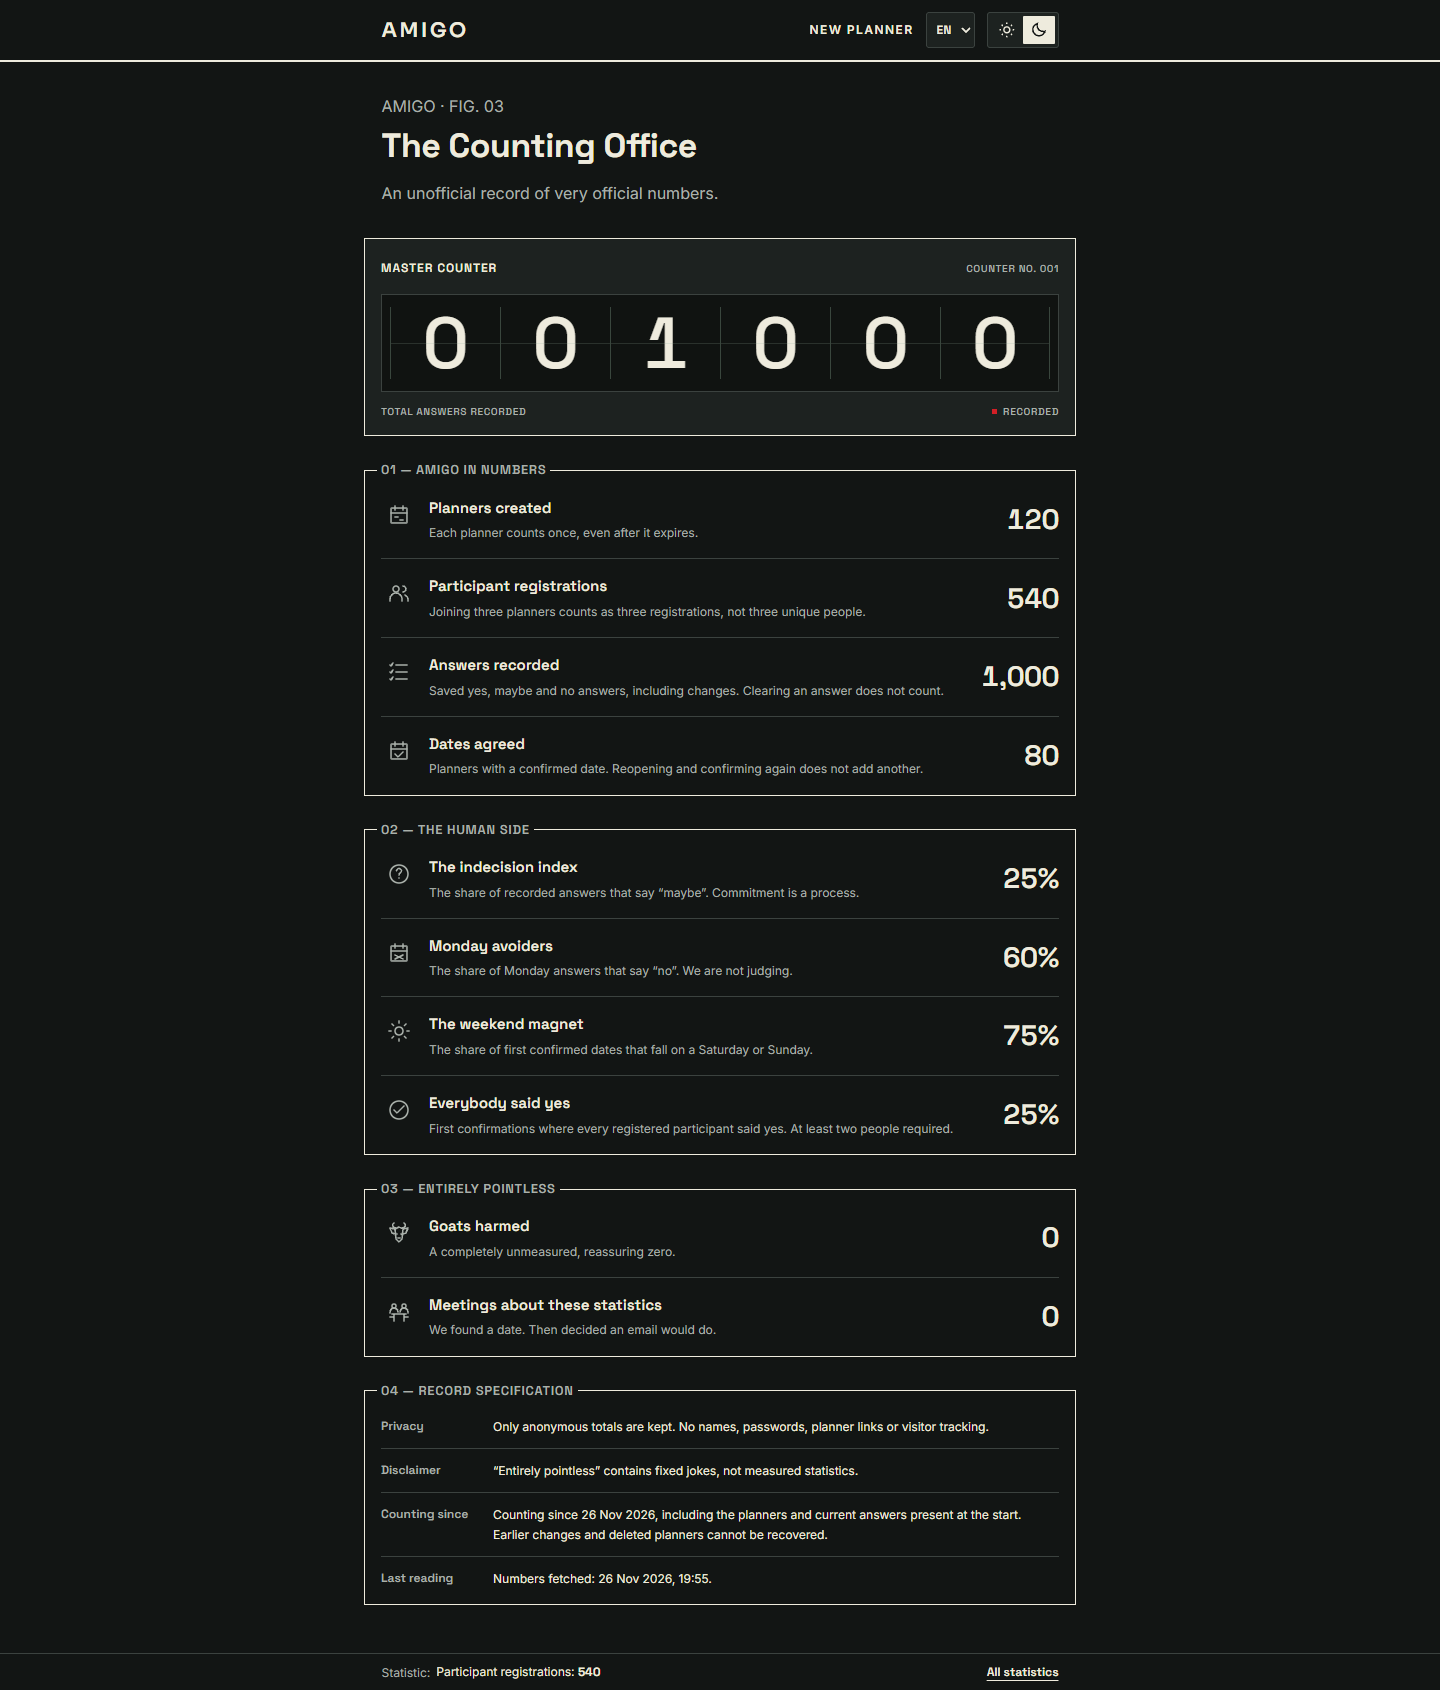
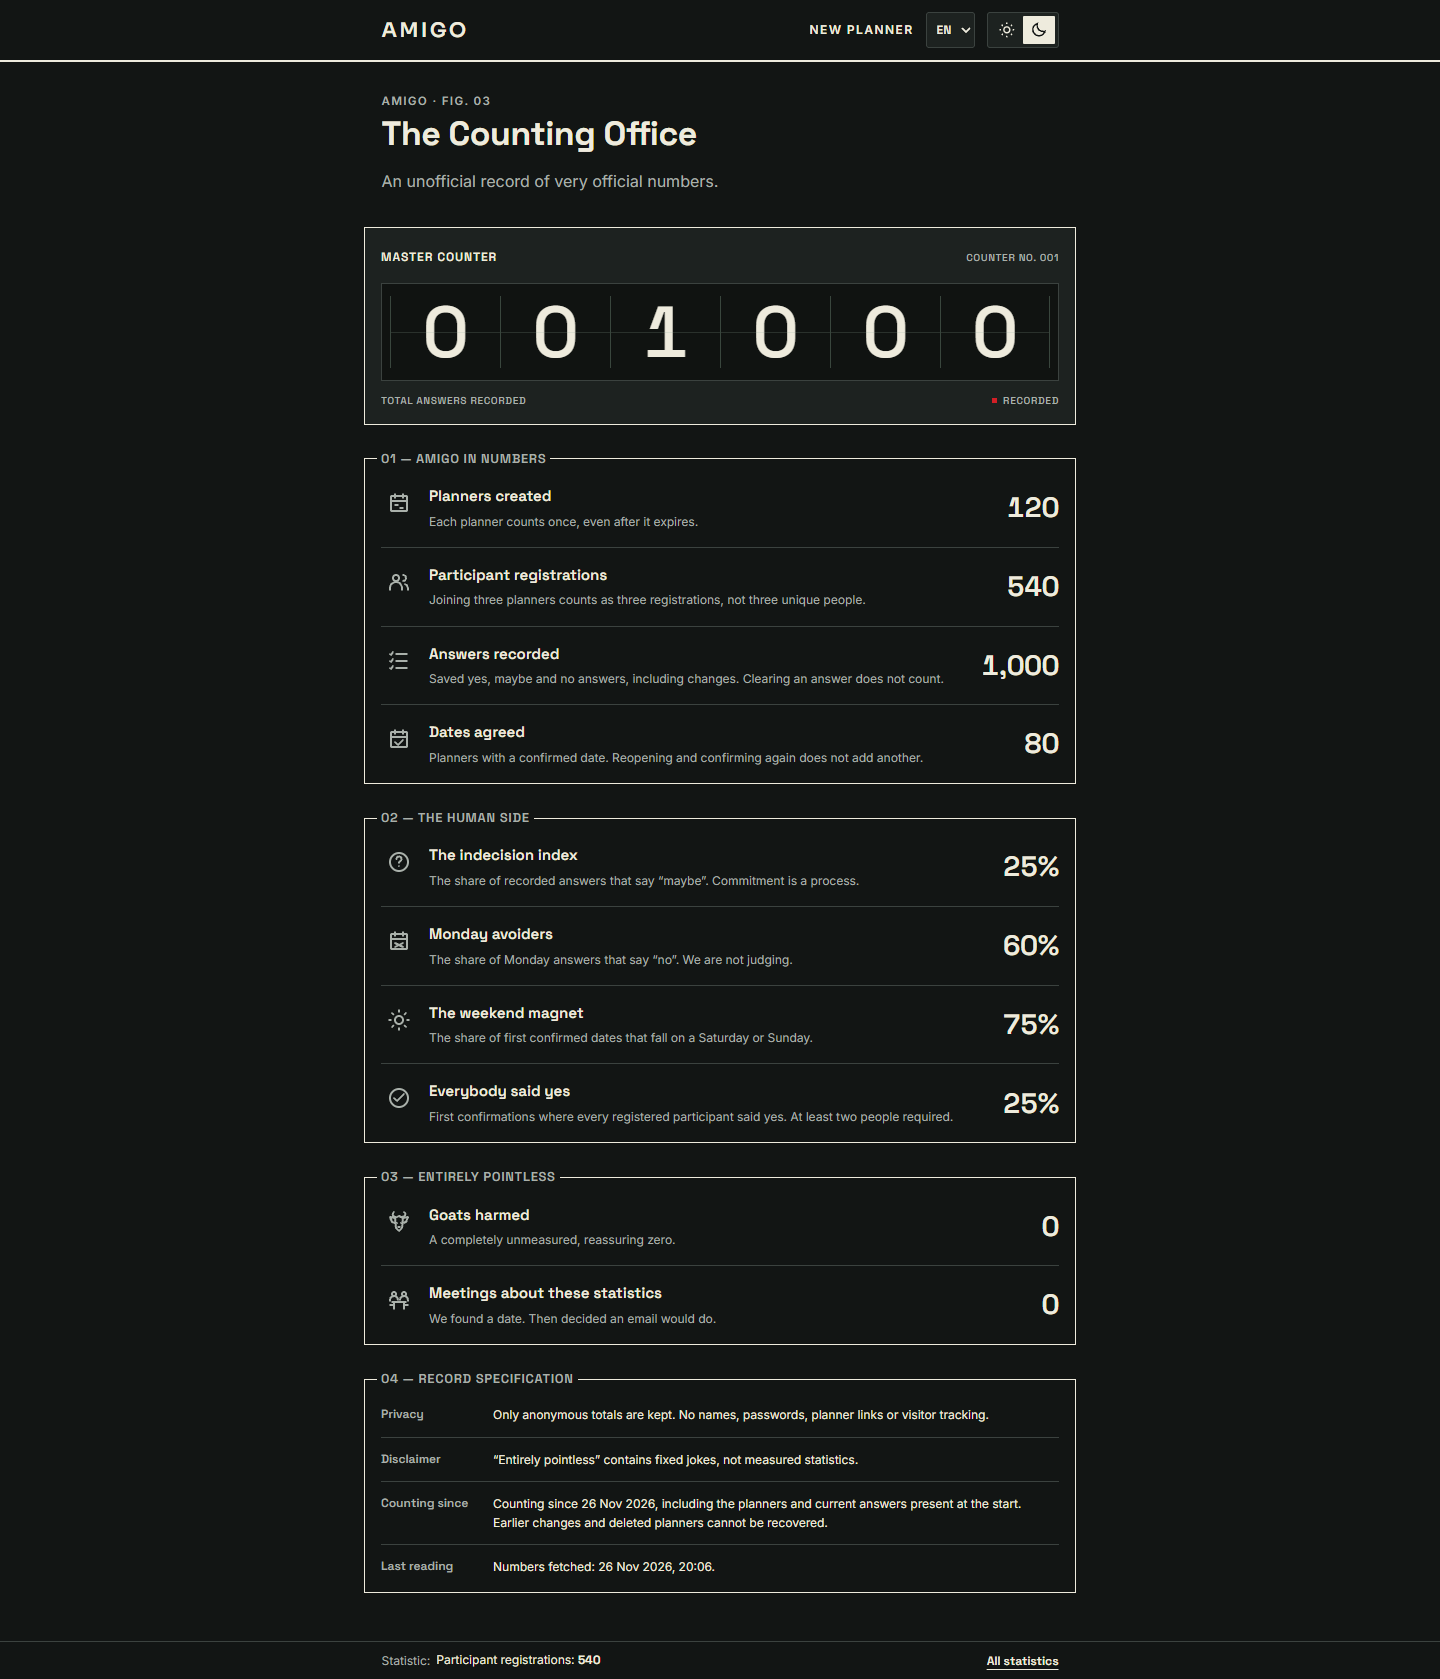
Statistics overhaul 4

diff --git a/src/components/StatisticsPage.jsx b/src/components/StatisticsPage.jsx
@@ -32,14 +32,14 @@ export default function StatisticsPage() {
   const { data, status, fetchedAt } = useStatistics();
   return (
     <main className="planner-page statistics-page counting-office">
-      <header className="office-header">
-        <div className="eyebrow">{t('statistics.eyebrow')}</div>
-        <h1>{t('statistics.title')}</h1>
-        <p className="description">{t('statistics.intro')}</p>
-      </header>
+      <div className="lab eyebrow">{t('statistics.eyebrow')}</div>
+      <h1>{t('statistics.title')}</h1>
+      <p className="description">{t('statistics.intro')}</p>
       {status === 'error' && <div className="statistics-error" role="alert">
         <p>{t('statistics.error')}</p>
-        <button type="button" className="btn-secondary" onClick={() => loadStatistics(true)}>{t('statistics.retry')}</button>
+        <div className="edit-actions">
+          <button type="button" className="btn-secondary" onClick={() => loadStatistics(true)}>{t('statistics.retry')}</button>
+        </div>
       </div>}
       <MasterCounter value={data?.answers ?? null} status={status} />
       <div className="form statistics-sections" aria-busy={status === 'loading' || status === 'idle'}>

diff --git a/src/styles/statistics.css b/src/styles/statistics.css
@@ -1,6 +1,4 @@
 /* Statistics share the planner palette and segment frames. Only the physical counter has its own dark windows. */
-.counting-office .office-header { margin-inline: var(--planner-content-inset); }
-.counting-office .office-header .description { margin-bottom: 0; }
 .counting-office .office-instrument-label h2 { margin: 0; padding: 0; border: 0; font-size: 12px; }
 .counting-office .statistics-grid { display: grid; grid-template-columns: minmax(0, 1fr); margin: 0; }
 .counting-office .statistic-card { position: relative; display: grid; grid-template-columns: 36px minmax(0, 1fr) auto; gap: 4px 12px; min-width: 0; padding-block: 16px; border-bottom: 1px solid var(--border); }

diff --git a/src/components/StatisticIcon.jsx b/src/components/StatisticIcon.jsx
@@ -15,7 +15,7 @@ const icons = {
 
 export default function StatisticIcon({ id }) {
   return <span className="office-statistic-icon" aria-hidden="true">
-    <svg viewBox="0 0 24 24" fill="none" stroke="currentColor" strokeWidth="1.6" strokeLinecap="round" strokeLinejoin="round" data-statistic-icon={id}>
+    <svg viewBox="0 0 24 24" fill="none" stroke="currentColor" strokeWidth="2" strokeLinecap="round" strokeLinejoin="round" data-statistic-icon={id}>
       {icons[id]}
     </svg>
   </span>;
